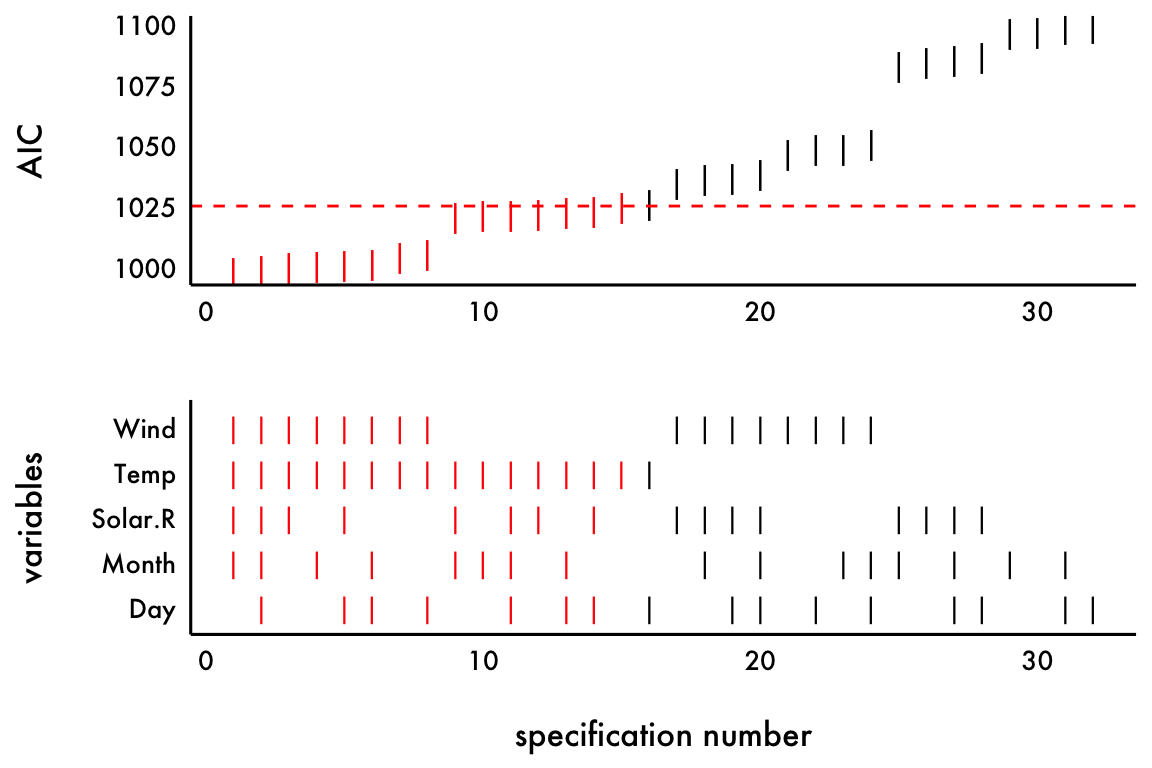
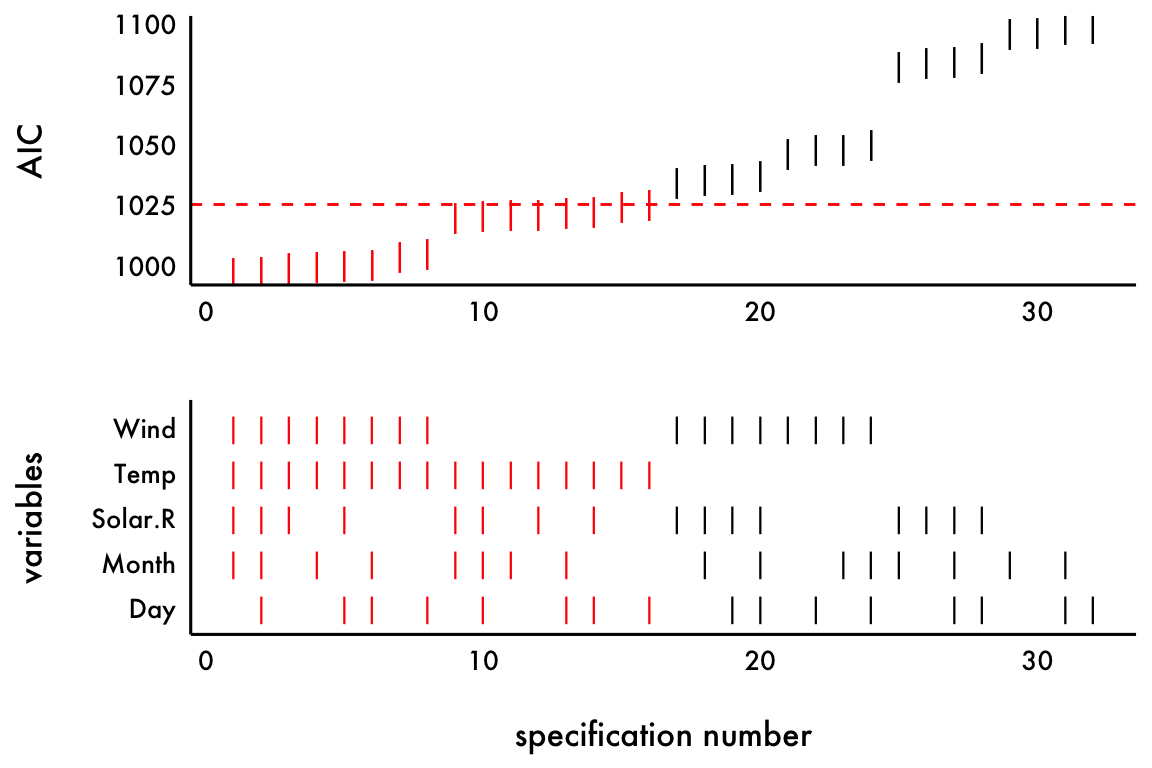
updated fit index

diff --git a/post/specification_curve_example/index.html b/post/specification_curve_example/index.html
@@ -18,7 +18,7 @@
     
   
   <meta name="description" content="load packages library(tidyverse) library(lme4) library(MuMIn) library(cowplot)  run models Run all possible nested models using the dredge function
-# set na.action for dredge options(na.action = &quot;na.fail&quot;) # omit NAs airquality.na = airquality %&gt;% na.omit() # run full model full.model = lm(Ozone ~ Solar.R &#43; Wind &#43; Temp &#43; Month &#43; Day, data = airquality.na) # run all possible nested models all.models = dredge(full.model) # set AIC for null model you want to compare model AIC values to null.">
+# set na.action for dredge options(na.action = &quot;na.fail&quot;) # omit NAs airquality.na = airquality %&gt;% na.omit() # run full model full.model = lm(Ozone ~ Solar.R &#43; Wind &#43; Temp &#43; Month &#43; Day, data = airquality.na) # run all possible nested models all.models = dredge(full.model, rank = &quot;AIC&quot;) # set AIC for null model you want to compare model AIC values to null.">
 
   
   <link rel="alternate" hreflang="en-us" href="https://dcosme.github.io/post/specification_curve_example/">
@@ -81,7 +81,7 @@
   <meta property="og:url" content="https://dcosme.github.io/post/specification_curve_example/">
   <meta property="og:title" content="Specification curve example | Danielle Cosme">
   <meta property="og:description" content="load packages library(tidyverse) library(lme4) library(MuMIn) library(cowplot)  run models Run all possible nested models using the dredge function
-# set na.action for dredge options(na.action = &quot;na.fail&quot;) # omit NAs airquality.na = airquality %&gt;% na.omit() # run full model full.model = lm(Ozone ~ Solar.R &#43; Wind &#43; Temp &#43; Month &#43; Day, data = airquality.na) # run all possible nested models all.models = dredge(full.model) # set AIC for null model you want to compare model AIC values to null.">
+# set na.action for dredge options(na.action = &quot;na.fail&quot;) # omit NAs airquality.na = airquality %&gt;% na.omit() # run full model full.model = lm(Ozone ~ Solar.R &#43; Wind &#43; Temp &#43; Month &#43; Day, data = airquality.na) # run all possible nested models all.models = dredge(full.model, rank = &quot;AIC&quot;) # set AIC for null model you want to compare model AIC values to null.">
   <meta property="og:locale" content="en-us">
   
   <meta property="article:published_time" content="2019-02-25T00:00:00&#43;00:00">
@@ -341,7 +341,7 @@ airquality.na = airquality %&gt;%
 full.model = lm(Ozone ~ Solar.R + Wind + Temp + Month + Day, data = airquality.na)
 
 # run all possible nested models
-all.models = dredge(full.model)
+all.models = dredge(full.model, rank = &quot;AIC&quot;)
 
 # set AIC for null model you want to compare model AIC values to
 null.AIC = 1025
@@ -353,7 +353,6 @@ variable.names = names(airquality)[-1]</code></pre>
 <h1>plot</h1>
 <p>On the top panel, plot the AIC of each model and color based on whether each is a better fitting model than some comparator (e.g., the AIC for the null model). The bottom panel specifies which variables were included in each model in the top panel.</p>
 <pre class="r"><code>plot.data = all.models %&gt;%
-  rename(&quot;AIC&quot; = &quot;AICc&quot;) %&gt;%
   arrange(AIC) %&gt;%
   mutate(specification = row_number(), 
          better.fit = ifelse(AIC &lt; null.AIC, &quot;yes&quot;, &quot;no&quot;))

diff --git a/categories/r/index.html b/categories/r/index.html
@@ -237,7 +237,7 @@
       
       load packages library(tidyverse) library(lme4) library(MuMIn) library(cowplot)  run models Run all possible nested models using the dredge function</p>
 
-<h1 id="set-na-action-for-dredge-options-na-action-quot-na-fail-quot-omit-nas-airquality-na-airquality-gt-na-omit-run-full-model-full-model-lm-ozone-solar-r-wind-temp-month-day-data-airquality-na-run-all-possible-nested-models-all-models-dredge-full-model-set-aic-for-null-model-you-want-to-compare-model-aic-values-to-null">set na.action for dredge options(na.action = &quot;na.fail&quot;) # omit NAs airquality.na = airquality %&gt;% na.omit() # run full model full.model = lm(Ozone ~ Solar.R + Wind + Temp + Month + Day, data = airquality.na) # run all possible nested models all.models = dredge(full.model) # set AIC for null model you want to compare model AIC values to null.</h1>
+<h1 id="set-na-action-for-dredge-options-na-action-quot-na-fail-quot-omit-nas-airquality-na-airquality-gt-na-omit-run-full-model-full-model-lm-ozone-solar-r-wind-temp-month-day-data-airquality-na-run-all-possible-nested-models-all-models-dredge-full-model-rank-quot-aic-quot-set-aic-for-null-model-you-want-to-compare-model-aic-values-to-null">set na.action for dredge options(na.action = &quot;na.fail&quot;) # omit NAs airquality.na = airquality %&gt;% na.omit() # run full model full.model = lm(Ozone ~ Solar.R + Wind + Temp + Month + Day, data = airquality.na) # run all possible nested models all.models = dredge(full.model, rank = &quot;AIC&quot;) # set AIC for null model you want to compare model AIC values to null.</h1>
 
       
     </div>

diff --git a/tags/specification-curve/index.html b/tags/specification-curve/index.html
@@ -237,7 +237,7 @@
       
       load packages library(tidyverse) library(lme4) library(MuMIn) library(cowplot)  run models Run all possible nested models using the dredge function</p>
 
-<h1 id="set-na-action-for-dredge-options-na-action-quot-na-fail-quot-omit-nas-airquality-na-airquality-gt-na-omit-run-full-model-full-model-lm-ozone-solar-r-wind-temp-month-day-data-airquality-na-run-all-possible-nested-models-all-models-dredge-full-model-set-aic-for-null-model-you-want-to-compare-model-aic-values-to-null">set na.action for dredge options(na.action = &quot;na.fail&quot;) # omit NAs airquality.na = airquality %&gt;% na.omit() # run full model full.model = lm(Ozone ~ Solar.R + Wind + Temp + Month + Day, data = airquality.na) # run all possible nested models all.models = dredge(full.model) # set AIC for null model you want to compare model AIC values to null.</h1>
+<h1 id="set-na-action-for-dredge-options-na-action-quot-na-fail-quot-omit-nas-airquality-na-airquality-gt-na-omit-run-full-model-full-model-lm-ozone-solar-r-wind-temp-month-day-data-airquality-na-run-all-possible-nested-models-all-models-dredge-full-model-rank-quot-aic-quot-set-aic-for-null-model-you-want-to-compare-model-aic-values-to-null">set na.action for dredge options(na.action = &quot;na.fail&quot;) # omit NAs airquality.na = airquality %&gt;% na.omit() # run full model full.model = lm(Ozone ~ Solar.R + Wind + Temp + Month + Day, data = airquality.na) # run all possible nested models all.models = dredge(full.model, rank = &quot;AIC&quot;) # set AIC for null model you want to compare model AIC values to null.</h1>
 
       
     </div>

diff --git a/tags/tutorial/index.html b/tags/tutorial/index.html
@@ -237,7 +237,7 @@
       
       load packages library(tidyverse) library(lme4) library(MuMIn) library(cowplot)  run models Run all possible nested models using the dredge function</p>
 
-<h1 id="set-na-action-for-dredge-options-na-action-quot-na-fail-quot-omit-nas-airquality-na-airquality-gt-na-omit-run-full-model-full-model-lm-ozone-solar-r-wind-temp-month-day-data-airquality-na-run-all-possible-nested-models-all-models-dredge-full-model-set-aic-for-null-model-you-want-to-compare-model-aic-values-to-null">set na.action for dredge options(na.action = &quot;na.fail&quot;) # omit NAs airquality.na = airquality %&gt;% na.omit() # run full model full.model = lm(Ozone ~ Solar.R + Wind + Temp + Month + Day, data = airquality.na) # run all possible nested models all.models = dredge(full.model) # set AIC for null model you want to compare model AIC values to null.</h1>
+<h1 id="set-na-action-for-dredge-options-na-action-quot-na-fail-quot-omit-nas-airquality-na-airquality-gt-na-omit-run-full-model-full-model-lm-ozone-solar-r-wind-temp-month-day-data-airquality-na-run-all-possible-nested-models-all-models-dredge-full-model-rank-quot-aic-quot-set-aic-for-null-model-you-want-to-compare-model-aic-values-to-null">set na.action for dredge options(na.action = &quot;na.fail&quot;) # omit NAs airquality.na = airquality %&gt;% na.omit() # run full model full.model = lm(Ozone ~ Solar.R + Wind + Temp + Month + Day, data = airquality.na) # run all possible nested models all.models = dredge(full.model, rank = &quot;AIC&quot;) # set AIC for null model you want to compare model AIC values to null.</h1>
 
       
     </div>

diff --git a/index.html b/index.html
@@ -717,7 +717,7 @@
   <div class="article-style" itemprop="articleBody">
     
     load packages library(tidyverse) library(lme4) library(MuMIn) library(cowplot)  run models Run all possible nested models using the dredge function
-# set na.action for dredge options(na.action = &quot;na.fail&quot;) # omit NAs airquality.na = airquality %&gt;% na.omit() # run full model full.model = lm(Ozone ~ Solar.R + Wind + Temp + Month + Day, data = airquality.na) # run all possible nested models all.models = dredge(full.model) # set AIC for null model you want to compare model AIC values to null.
+# set na.action for dredge options(na.action = &quot;na.fail&quot;) # omit NAs airquality.na = airquality %&gt;% na.omit() # run full model full.model = lm(Ozone ~ Solar.R + Wind + Temp + Month + Day, data = airquality.na) # run all possible nested models all.models = dredge(full.model, rank = &quot;AIC&quot;) # set AIC for null model you want to compare model AIC values to null.
     
   </div>
   <p class="read-more" itemprop="mainEntityOfPage">

diff --git a/post/index.html b/post/index.html
@@ -278,7 +278,7 @@
   <div class="article-style" itemprop="articleBody">
     
     load packages library(tidyverse) library(lme4) library(MuMIn) library(cowplot)  run models Run all possible nested models using the dredge function
-# set na.action for dredge options(na.action = &quot;na.fail&quot;) # omit NAs airquality.na = airquality %&gt;% na.omit() # run full model full.model = lm(Ozone ~ Solar.R + Wind + Temp + Month + Day, data = airquality.na) # run all possible nested models all.models = dredge(full.model) # set AIC for null model you want to compare model AIC values to null.
+# set na.action for dredge options(na.action = &quot;na.fail&quot;) # omit NAs airquality.na = airquality %&gt;% na.omit() # run full model full.model = lm(Ozone ~ Solar.R + Wind + Temp + Month + Day, data = airquality.na) # run all possible nested models all.models = dredge(full.model, rank = &quot;AIC&quot;) # set AIC for null model you want to compare model AIC values to null.
     
   </div>
   <p class="read-more" itemprop="mainEntityOfPage">
